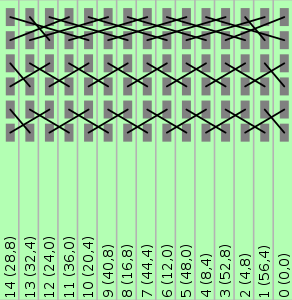
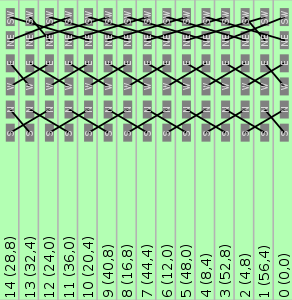
Add labels to sockets in wiring diagrams.
Makes it easier to cross-check a wiring diagram with a printed set of wiring
instructions.

diff --git a/spinner/diagrams/machine.py b/spinner/diagrams/machine.py
@@ -121,11 +121,21 @@ class MachineDiagram(object):
 	
 	
 	def add_label(self, label, cabinet, frame=None, board=None,
-	              rgba=(0.0,0.0,0.0,1.0)):
+	              socket=None, rgba=(0.0,0.0,0.0,1.0)):
 		"""
 		Add a textual label to a specific cabinet/frame/board/socket.
 		"""
-		if board is not None:
+		if socket is not None:
+			assert board is not None
+			assert frame is not None
+			# Render text going bottom-to-top in the center of the board
+			x, y, _ = self.cabinet.get_position(cabinet, frame, board, socket)
+			w, h = self._socket_dimensions
+			
+			alignment = 0.5
+			size = w * 1.0
+			angle = -pi/2.0
+		elif board is not None:
 			assert frame is not None
 			# Render text going bottom-to-top in the center of the board
 			x, y, _ = self.cabinet.get_position(cabinet, frame, board)
@@ -380,8 +390,8 @@ class MachineDiagram(object):
 		
 		
 		# Draw extra details
-		self._draw_labels(ctx)
 		self._draw_wires(ctx)
+		self._draw_labels(ctx)
 		self._draw_highlights(ctx)
 		
 		ctx.restore()

diff --git a/spinner/scripts/wiring_diagram.py b/spinner/scripts/wiring_diagram.py
@@ -32,7 +32,7 @@ def add_diagram_arguments(parser):
 	                         "with a red border")
 	
 	parser.add_argument("--hide-labels", "-L", action="store_true", default=False,
-	                    help="hide board/frame/cabinet number labels")
+	                    help="hide socket/board/frame/cabinet number labels")
 
 
 def get_diagram_arguments(parser, args, w, h, cabinet, num_frames):
@@ -117,6 +117,10 @@ def main(args=None):
 					if xy is not None:
 						md.add_label("{} ({},{})".format(board_num, xy.x, xy.y),
 						             cabinet_num, frame_num, board_num)
+						for socket in Direction:
+							name = "".join(w[0] for w in socket.name.split("_")).upper()
+							md.add_label(name, cabinet_num, frame_num, board_num, socket,
+							             rgba=(1.0, 1.0, 1.0, 0.7))
 	
 	# Add highlights
 	for highlight in highlights:

diff --git a/tests/diagrams/test_machine.py b/tests/diagrams/test_machine.py
@@ -77,6 +77,7 @@ def test_draw(add_wires, add_labels, add_highlights):
 		md.add_label("one", 0)
 		md.add_label("two", 0, 1)
 		md.add_label("three", 0, 1, 2)
+		md.add_label("four", 0, 1, 2, Direction.north)
 	
 	if add_wires:
 		md.add_wire((0,0,0,Direction.north), (1,2,3,Direction.north))
@@ -136,7 +137,7 @@ def test_draw(add_wires, add_labels, add_highlights):
 	for show_text_mock in ctx.show_text.mock_calls:
 		labels_drawn.add(show_text_mock[1][0])
 	if add_labels:
-		assert labels_drawn == set("one two three".split())
+		assert labels_drawn == set("one two three four".split())
 	else:
 		assert len(labels_drawn) == 0
 	

diff --git a/tests/scripts/test_wiring_diagram.py b/tests/scripts/test_wiring_diagram.py
@@ -161,6 +161,8 @@ def test_labels(pdf_file, has_labels, monkeypatch):
 				expected_labels.append((cabinet, frame))
 				for board in range(24):
 					expected_labels.append((cabinet, frame, board))
+					for socket in Direction:
+						expected_labels.append((cabinet, frame, board, socket))
 		expected_labels.sort()
 		
 		# XXX: Note we're just checking the labels are added to the right places,

diff --git a/docs/source/spinner-wiring-diagram.rst b/docs/source/spinner-wiring-diagram.rst
@@ -44,7 +44,7 @@ Generates illustrations of SpiNNaker machine wiring.
 	  --highlight CABINET [FRAME [BOARD [{south,north,north-east,east,west,south-west}]]] [ ...]
 	                        highlight a particular cabinet/frame/board/socket with
 	                        a red border
-	  --hide-labels, -L     hide board/frame/cabinet number labels
+	  --hide-labels, -L     hide socket/board/frame/cabinet number labels
 	
 	image file parameters:
 	  filename              filename to write the output to (.pdf or .png)
